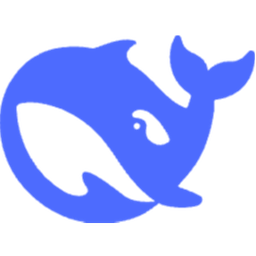
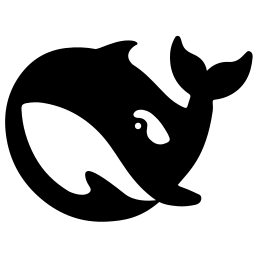
feat: v1.0.5 — 局域网直连 0.0.0.0:28000 (patch 绕过 CLI) + 修复空白页 + 黑色图标
- cmd/main: 写 cordis.patch.yml 覆盖 webserver 绑 0.0.0.0, 绕过 CLI 0.0.0.0 校验; service_port 改 28000
- proxy.py: 重写 HTML 绝对资源路径 + 注入 <base href=/app/dsh/>, 修复统一网关空白页
- 图标: DeepSeek 官方黑色鲸鱼

diff --git a/cmd/proxy.py b/cmd/proxy.py
@@ -88,6 +88,38 @@ def _relay(sock_a, sock_b):
     t1.join(); t2.join()
 
 
+# 统一网关前缀 (fnOS 以 /app/dsh 暴露, 需重写 HTML 里的绝对资源路径, 否则浏览器请求 /assets 丢前缀 404 → 空白页)
+GATEWAY_PREFIX = os.environ.get("GATEWAY_PREFIX", "/app/dsh")
+
+# 重写 HTML body: 把绝对资源路径 (/assets, /plugins, /manifest, /favicon) 加上统一网关前缀
+# 否则经 fnOS 统一网关 /app/dsh 访问时, 浏览器按绝对路径请求 /assets/... 丢失前缀 → 404 空白页
+def _rewrite_html(data: bytes) -> bytes:
+    try:
+        text = data.decode("utf-8")
+    except UnicodeDecodeError:
+        return data
+    text = text.replace(
+        'src="/assets/', f'src="{GATEWAY_PREFIX}/assets/'
+    ).replace(
+        'href="/assets/', f'href="{GATEWAY_PREFIX}/assets/'
+    ).replace(
+        'href="/plugins/', f'href="{GATEWAY_PREFIX}/plugins/'
+    ).replace(
+        'src="/plugins/', f'src="{GATEWAY_PREFIX}/plugins/'
+    ).replace(
+        'href="/manifest.webmanifest', f'href="{GATEWAY_PREFIX}/manifest.webmanifest'
+    ).replace(
+        'href="/favicon', f'href="{GATEWAY_PREFIX}/favicon'
+    )
+    # 注入 <base> 兜底 (相对路径)
+    if text.startswith("<!doctype html") and "<base" not in text:
+        text = text.replace(
+            "<head>",
+            f"<head><base href=\"{GATEWAY_PREFIX}/\">", 1
+        )
+    return text.encode("utf-8")
+
+
 class Handler(BaseHTTPRequestHandler):
     protocol_version = "HTTP/1.1"
 
@@ -116,6 +148,10 @@ class Handler(BaseHTTPRequestHandler):
                 return
             # 常规响应: 转发 body
             data = resp.read()
+            # 若是 HTML, 重写绝对资源路径 (加统一网关前缀), 避免空白页
+            ctype = resp.getheader("Content-Type", "").lower()
+            if "text/html" in ctype:
+                data = _rewrite_html(data)
             self.send_header("Content-Length", str(len(data)))
             self.end_headers()
             self.wfile.write(data)

diff --git a/CHANGELOG.md b/CHANGELOG.md
@@ -1,5 +1,11 @@
 # CHANGELOG
 
+## 1.0.5 (2026-08-13)
+- **局域网直连**：经 cordis.patch.yml 覆盖 webserver 绑 `0.0.0.0:28000`（绕过 CLI 0.0.0.0 安全校验），局域网/Tailscale 可直接访问 `NAS_IP:28000`
+- **service_port 改为 28000**（统一 dsh web 端口，含 patch 层）
+- **修复空白页**：proxy.py 重写 HTML 绝对资源路径 + 注入 `<base href="/app/dsh/">`，统一网关资源加载正常
+- **图标换黑色**：DeepSeek 官方黑色鲸鱼图标
+
 ## 1.0.4 (2026-08-13)
 - **修复 app/server native 模块兼容性**：在 NAS 上重新构建 app/server node_modules（node-pty/sharp/lightningcss/rolldown/oxc-parser 等原生模块改用 NAS glibc 2.36 环境 + g++ 现场编译），解决离线包在 Arch(glibc 2.42) 构建导致的 NAS 加载失败
 - install_callback 增加 **g++/build-essential 检测**：缺失时在 install.log 给出清晰提示（避免"安装成功但 dsh 起不来"的困惑）
